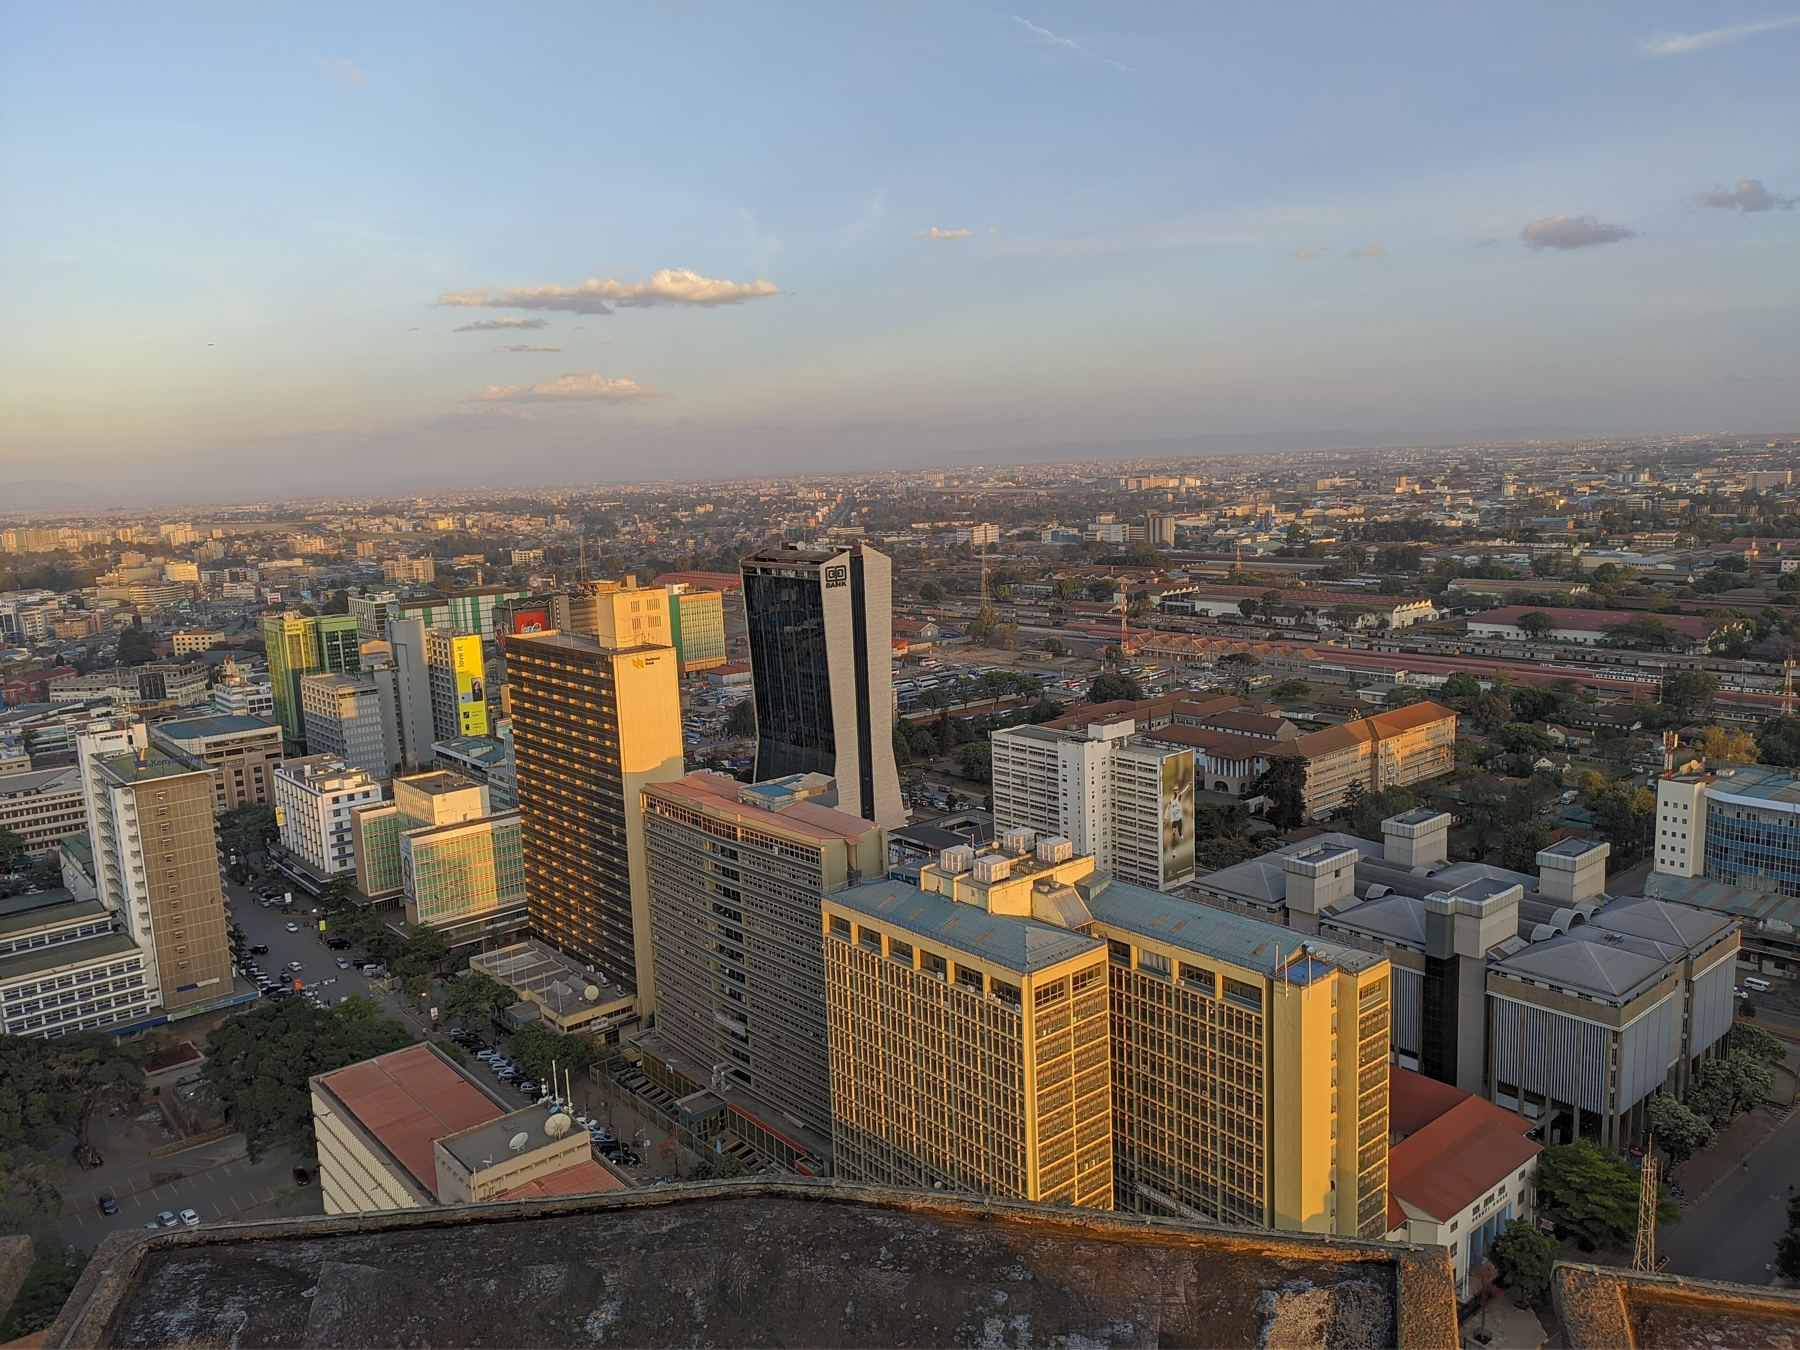
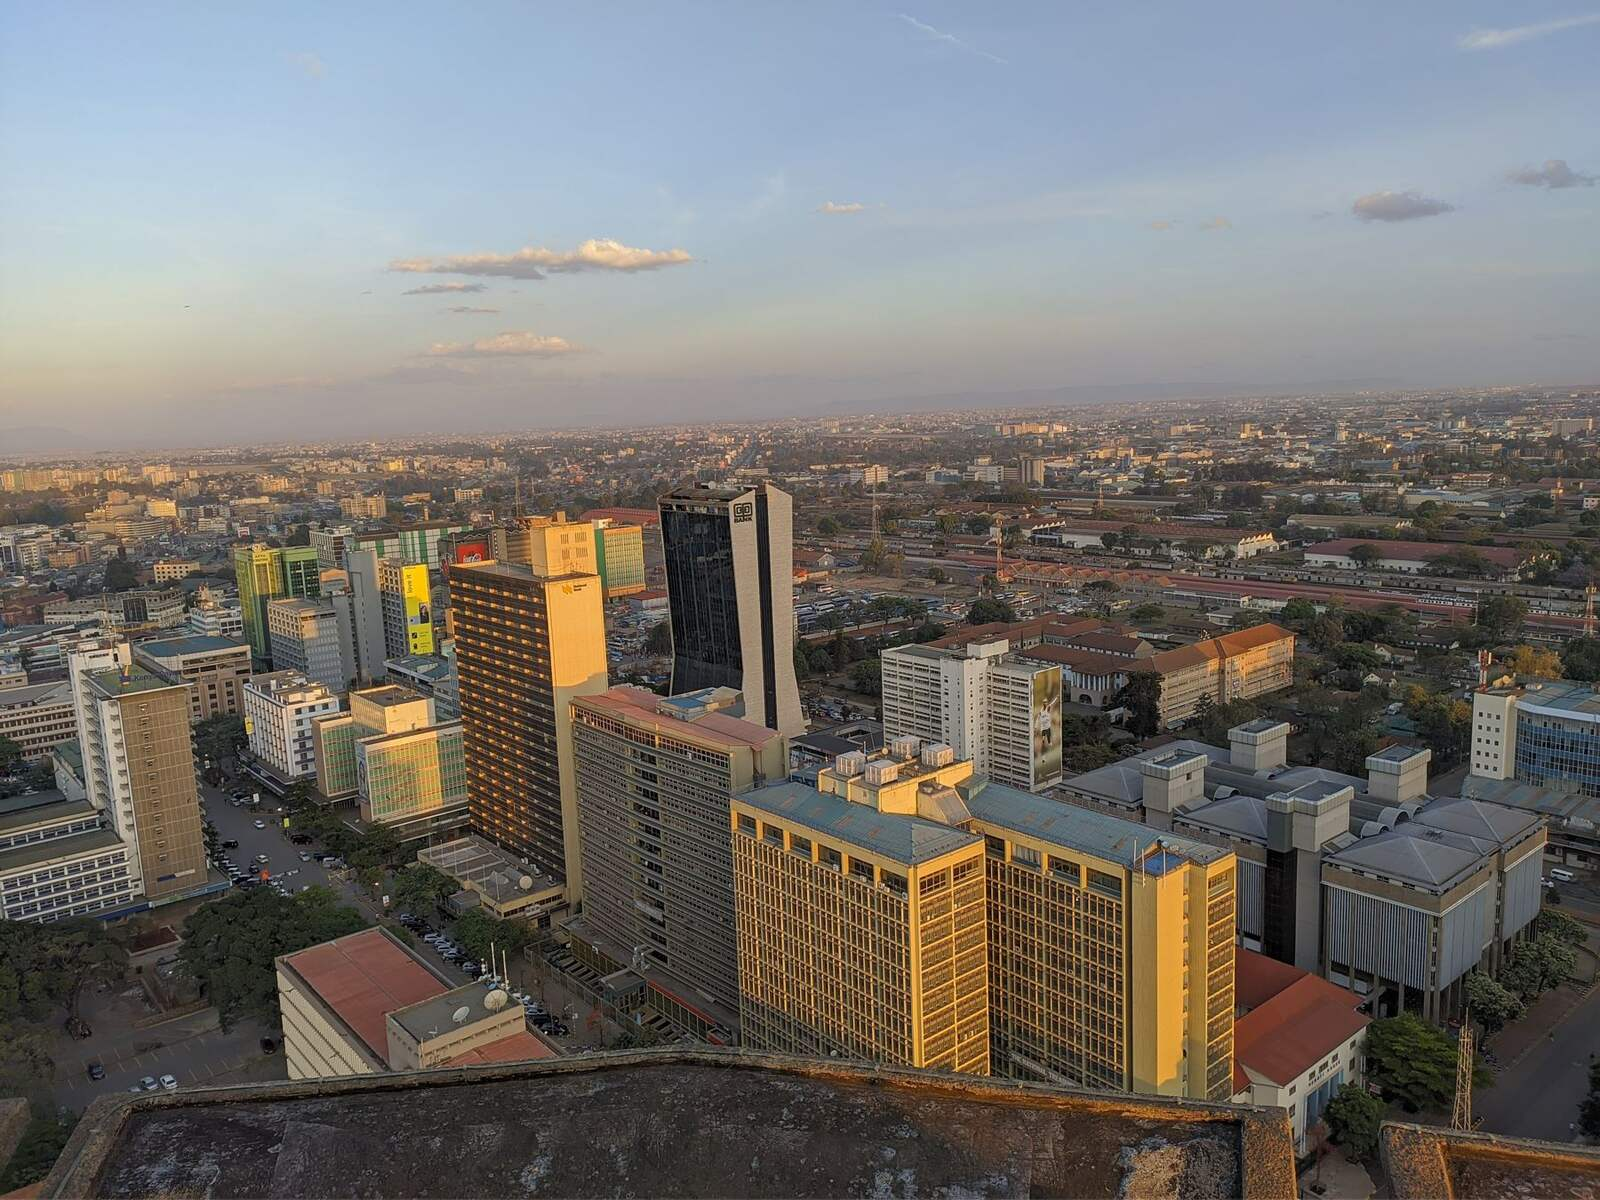
perf: compress 11 large photos; checklist polish
- Hero and section photos resized to 1600px and recompressed: 4.1 MB -> 2.4 MB
  across the 11 files over 300 KB (firewood 596 -> 343 KB, the rest under 275 KB).
- CleanCookIQ mark in the ecosystem diagram marked decorative (aria-hidden).
- 3D kitchen demo page: meta description, and noindex since it is only shown
  inside the What We Do viewer.

Changed region(s): [[0.4688, 0.74, 0.5625, 0.8633]]

diff --git a/components/home/Gap.jsx b/components/home/Gap.jsx
@@ -42,8 +42,8 @@ function EcosystemDiagram() {
         <text x="645" y="230" className="dg-label" textAnchor="middle">Programme partners</text>
         {/* data layer */}
         <rect x="10" y="272" width="740" height="48" rx="12" className="dg-band" />
-        {/* CleanCookIQ mark, from cleancookiq.com */}
-        <image href="/img/cleancookiq/mark.png" x="196" y="279" width="34" height="34" />
+        {/* CleanCookIQ mark, from cleancookiq.com. Decorative: the band's text names it. */}
+        <image href="/img/cleancookiq/mark.png" x="196" y="279" width="34" height="34" aria-hidden="true" />
         <text x="398" y="302" className="dg-label dg-label--small" textAnchor="middle">
           CleanCookIQ: the data layer underneath
         </text>

diff --git a/public/models/kitchen-3d.html b/public/models/kitchen-3d.html
@@ -3,6 +3,9 @@
 <head>
 <meta charset="UTF-8">
 <meta name="viewport" content="width=device-width, initial-scale=1.0">
+<meta name="description" content="Interactive 3D layout of an Ignis centralised steam kitchen designed for a 2,000-inmate correctional facility, shown on the Ignis What We Do page.">
+<!-- Only shown inside the What We Do 3D viewer (components/solutions/KitchenModal.jsx). -->
+<meta name="robots" content="noindex">
 <title>Correctional Central Kitchen — 2,000-Inmate Standard · 3D Demo</title>
 <style>
   :root{
